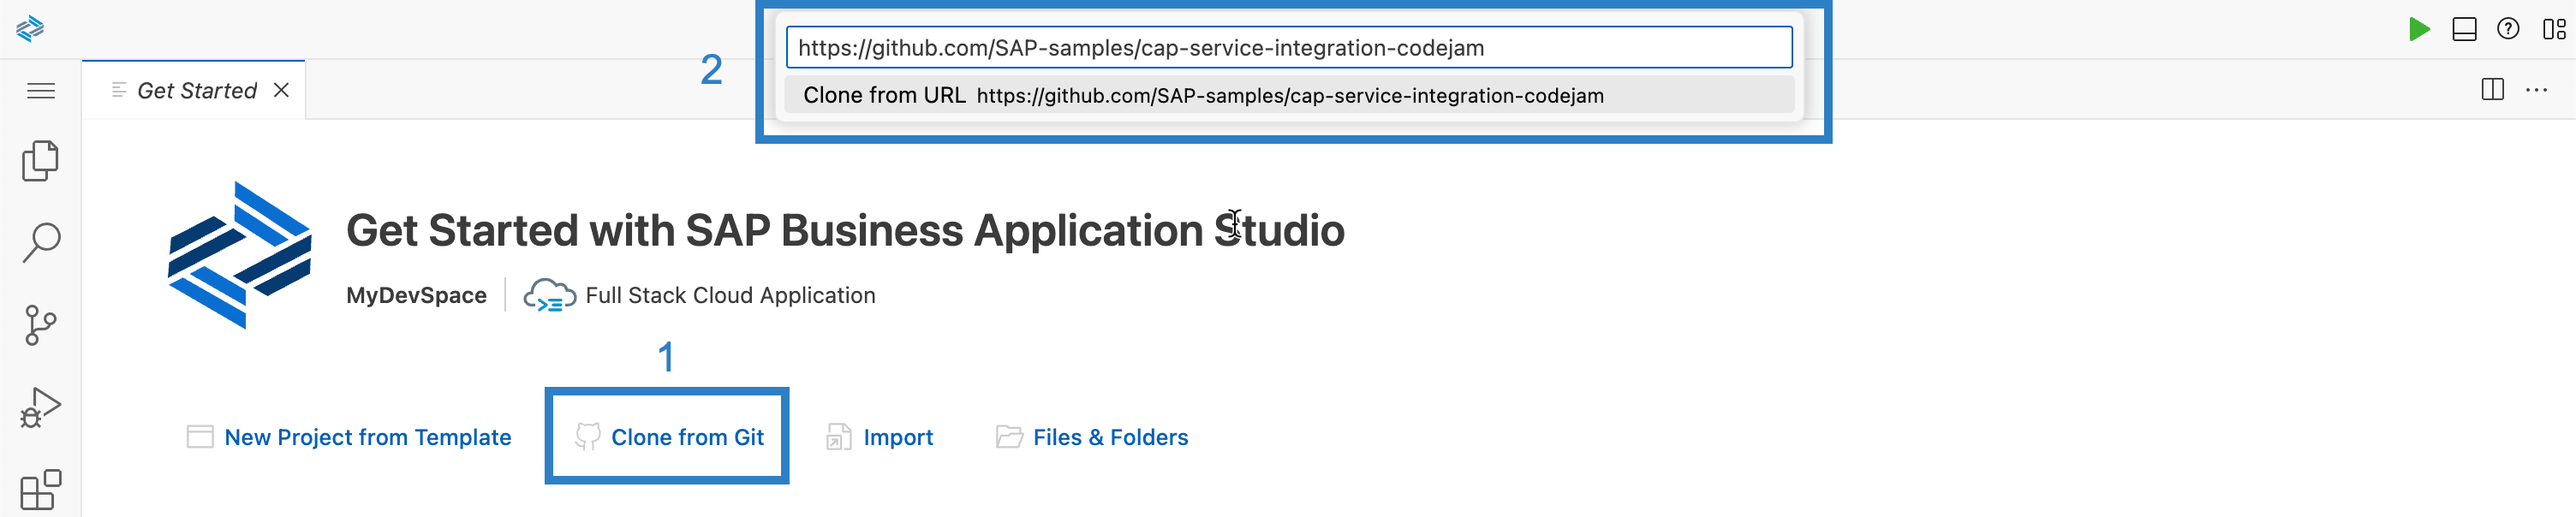
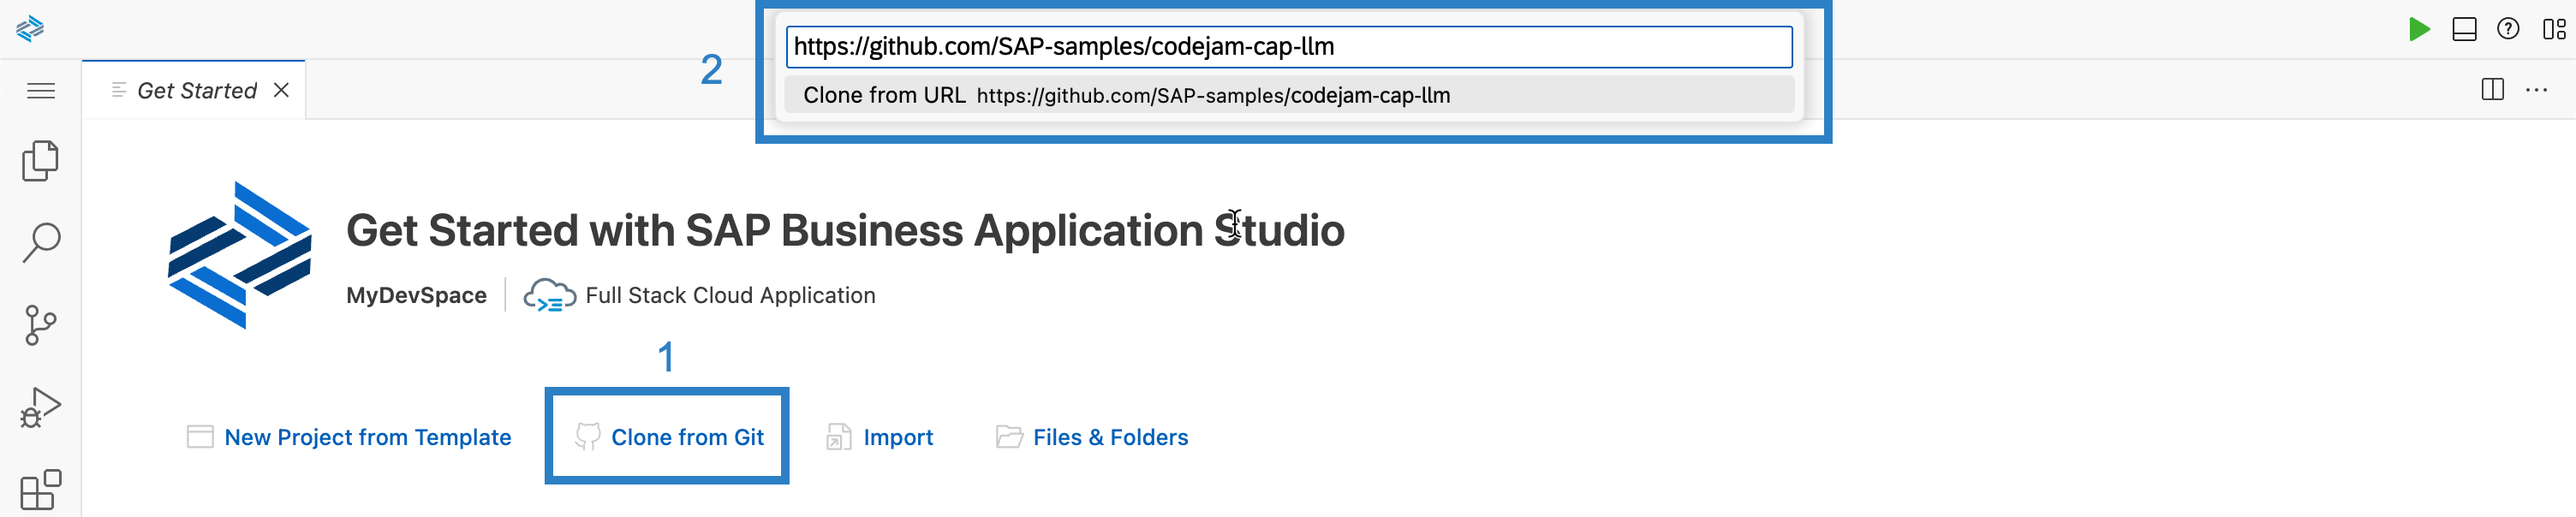
set up workspace fix

Changed region(s): [[0.3125, 0.0596, 0.5938, 0.1192], [0.5, 0.149, 0.625, 0.2086]]

diff --git a/exercises/01-set-up-workspace/README.md b/exercises/01-set-up-workspace/README.md
@@ -24,7 +24,7 @@ Choosing the "Full Stack Cloud Application" brings in some predefined extensions
 
 #### Clone this repository
 
-👉 Once the Dev Space is started and you're in it, use the "Clone from Git" option in the "Get Started" screen that appears, to clone this repository, following the subsequent prompts to open the cloned repository; specify `https://github.com/SAP-samples/cap-llm-codejam` as the URL.
+👉 Once the Dev Space is started and you're in it, use the "Clone from Git" option in the "Get Started" screen that appears, to clone this repository, following the subsequent prompts to open the cloned repository; specify `https://github.com/SAP-samples/codejam-cap-llm` as the URL.
 
 ![Cloning the repo](assets/clone-the-codejam-repository.png)
 
@@ -37,8 +37,8 @@ _Follow the "Primary environment" section above if you want to use a Dev Space i
 👉 At a command prompt on your local machine, clone this repository into a directory of your choice, and then open VS Code, pointing to that newly cloned repository's directory:
 
 ```bash
-git clone https://github.com/SAP-samples/cap-service-integration-codejam
-code cap-service-integration-codejam
+git clone https://github.com/SAP-samples/codejam-cap-llm
+code codejam-cap-llm
 ```
 
 Once VS Code has started, and opened the directory, it should notice the [dev container configuration file](../../.devcontainer/devcontainer.json) (in the [.devcontainer/](../../.devcontainer/) directory) and ask you if you want to reopen everything in a container, as shown in the screenshot. Confirm that you want to, by selecting the default answer "Reopen in Container".
@@ -53,7 +53,7 @@ At this stage, once VS Code has reopened, you need to do one more thing, so that
 
 ```shell
 mkdir -p $HOME/projects/ \
-  && ln -s /workspaces/cap-service-integration-codejam/ $HOME/projects/
+  && ln -s /workspaces/codejam-cap-llm/ $HOME/projects/
 ```
 
 > If the `projects/` directory already exists, for some reason, then the `mkdir` command would normally fail and emit a message; this would also mean that the subsequent `ln` command would not run (as they're connected via `&&`). So you can use the `-p` option to tell `mkdir` not to complain.
@@ -63,17 +63,16 @@ You can make sure that everything is OK by checking that you can see the directo
 ```shell
 $ find -L $HOME/projects -maxdepth 2 -type d
 /home/node/projects
-/home/node/projects/cap-service-integration-codejam
-/home/node/projects/cap-service-integration-codejam/.devcontainer
-/home/node/projects/cap-service-integration-codejam/.git
-/home/node/projects/cap-service-integration-codejam/.github
-/home/node/projects/cap-service-integration-codejam/.reuse
-/home/node/projects/cap-service-integration-codejam/.vscode
-/home/node/projects/cap-service-integration-codejam/LICENSES
-/home/node/projects/cap-service-integration-codejam/assets
-/home/node/projects/cap-service-integration-codejam/exercises
-/home/node/projects/cap-service-integration-codejam/incidents
-/home/node/projects/cap-service-integration-codejam/scripts
+/home/node/projects/codejam-cap-llm
+/home/node/projects/codejam-cap-llm/.devcontainer
+/home/node/projects/codejam-cap-llm/.git
+/home/node/projects/codejam-cap-llm/.github
+/home/node/projects/codejam-cap-llm/.reuse
+/home/node/projects/codejam-cap-llm/.vscode
+/home/node/projects/codejam-cap-llm/LICENSES
+/home/node/projects/codejam-cap-llm/assets
+/home/node/projects/codejam-cap-llm/exercises
+/home/node/projects/codejam-cap-llm/project
 ```
 
 Now you should be all set. You are ready to explore service integration with CAP in your dev container.
@@ -108,12 +107,12 @@ home: /managed-content/globals/pnpm/5/.pnpm/@sap+cds@7.6.1_express@4.18.2/node_m
 
 ## Install the NPM package dependencies
 
-We'll be working mostly within the `project/cap-ai-helper` directory of this repo, which contains a starter CAP project with code being already written to provide UI and some of the service functionalities to make the CodeJam experience more accessible. In there, the `package.json` file contains runtime and design time dependencies.
+We'll be working mostly within the `project/cap-documentation-ai-helper` directory of this repo, which contains a starter CAP project with code being already written to provide UI and some of the service functionalities to make the CodeJam experience more accessible. In there, the `package.json` file contains runtime and design time dependencies.
 
-👉 Make sure you're in the `project/cap-ai-helper` directory (where `package.json` lives):
+👉 Make sure you're in the `project/cap-documentation-ai-helper` directory (where `package.json` lives):
 
 ```bash
-cd $HOME/projects/cap-llm-codejam/project/cap-ai-helper/
+cd $HOME/projects/cap-llm-codejam/project/cap-documentation-ai-helper/
 ```
 
 👉 Now install the dependencies thus:
@@ -125,7 +124,7 @@ npm install
 You can double check what's installed, with `npm list`, which should show you something similar to this:
 
 ```text
-cap-ai-helper@1.0.0 /Users/d061070/Developer/GitHub/cap-ai-vector-engine-sample/application
+cap-documentation-ai-helper@1.0.0 /Users/Developer/GitHub/codejam-cap-llm/project/cap-documentation-ai-helper
 ├── @cap-js/sqlite@1.7.3
 ├── @sap-cloud-sdk/http-client@3.16.0
 ├── @sap/cds-dk@7.9.5
